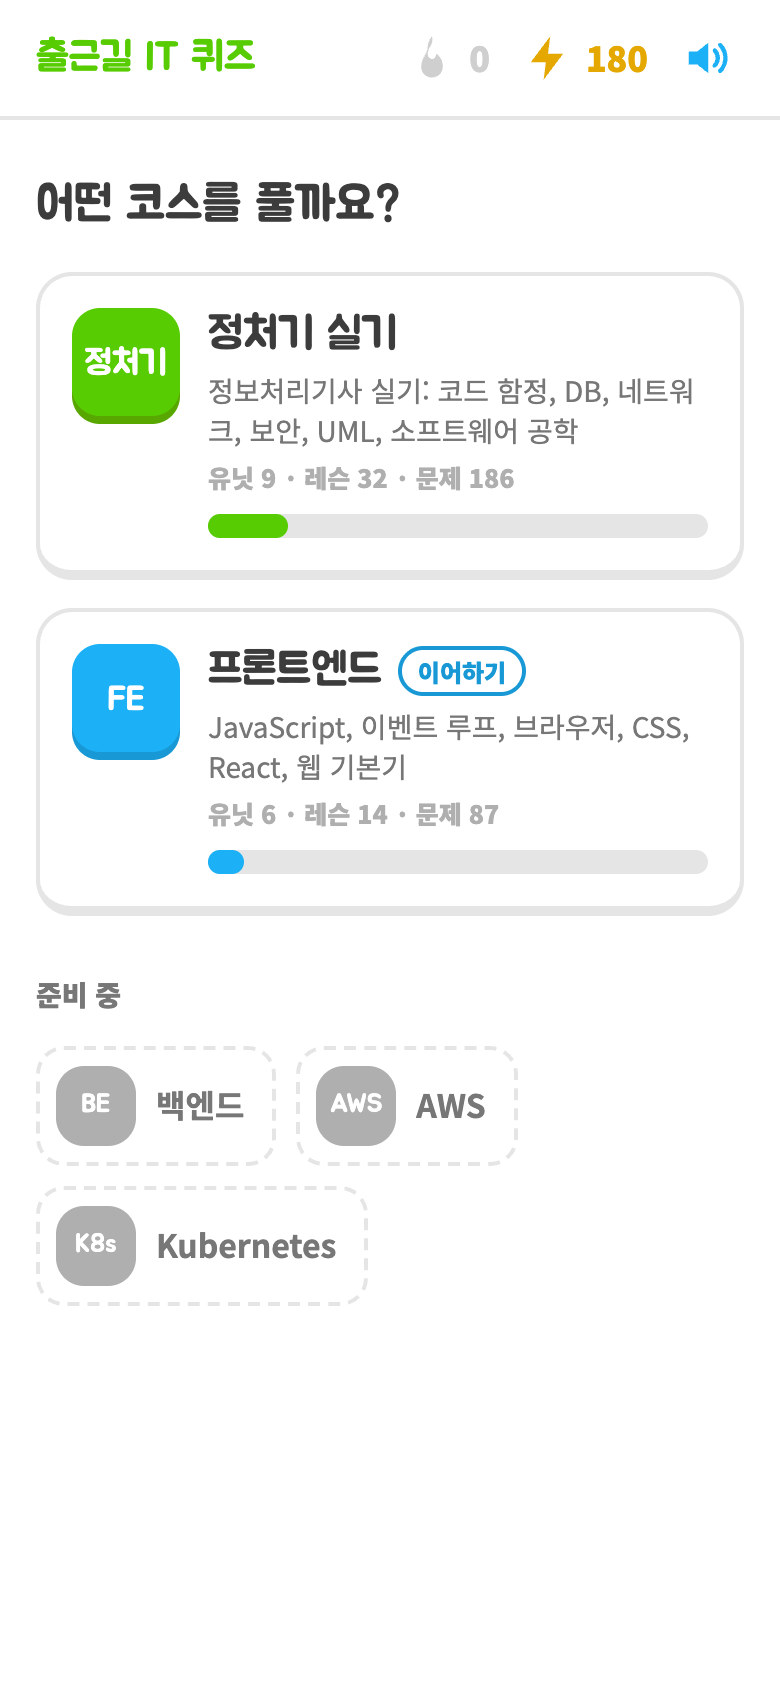
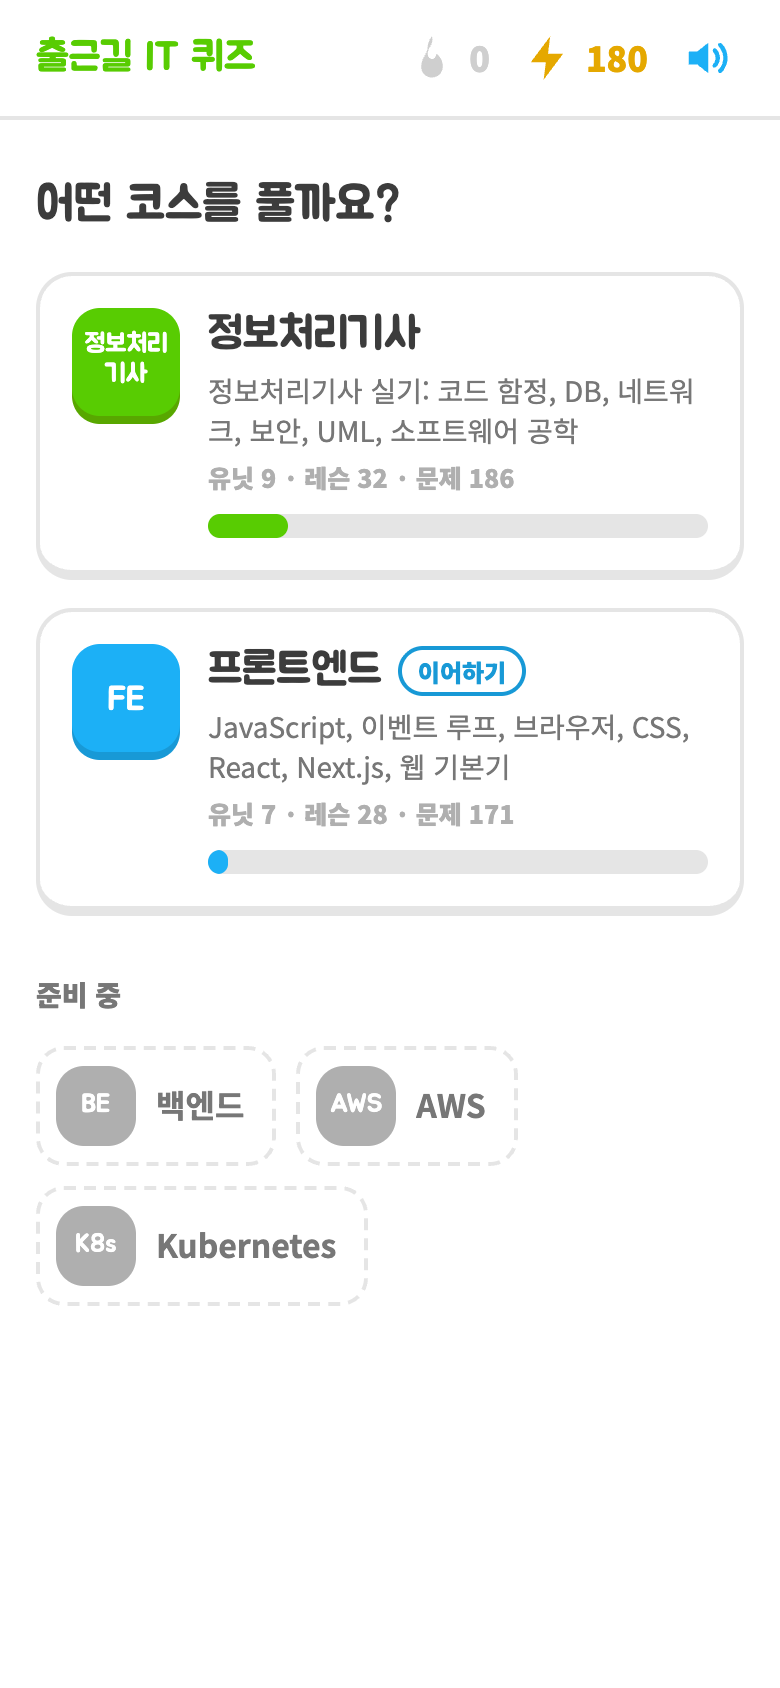
프로젝트 이름을 duckgu-quiz로, README 갱신
- 배포 경로 /jeongcheogi-quiz/ → /duckgu-quiz/ (vite base, Router 주석, package.json)
- README: 새 주소, 정답 검증 방법, 품질 테스트 항목, 폴더 구조(tools, docs, 스킬), 최신 스크린샷

diff --git a/src/lib/Router.ts b/src/lib/Router.ts
@@ -14,7 +14,7 @@ export interface MatchedRoute extends RouteDef {
 
 /**
  * History API 기반 SPA 라우터.
- * GitHub Pages처럼 하위 경로(/jeongcheogi-quiz/)에 올릴 때를 위해 baseUrl을 받는다.
+ * GitHub Pages처럼 하위 경로(/duckgu-quiz/)에 올릴 때를 위해 baseUrl을 받는다.
  * <a data-link href="/lesson/c-1">는 새로고침 없이 이동한다.
  */
 export class Router {
@@ -67,7 +67,7 @@ export class Router {
     this.#routes.set(path, { regex: new RegExp(`^${this.#baseUrl}${pattern}\\/?$`), paramNames, handler });
   }
 
-  /** 앱 안에서 쓰는 경로('/lesson/1')를 실제 주소('/jeongcheogi-quiz/lesson/1')로 바꾼다 */
+  /** 앱 안에서 쓰는 경로('/lesson/1')를 실제 주소('/duckgu-quiz/lesson/1')로 바꾼다 */
   href(path: string) {
     return this.#baseUrl + (path.startsWith('/') ? path : `/${path}`);
   }

diff --git a/vite.config.ts b/vite.config.ts
@@ -1,8 +1,8 @@
 import { defineConfig } from 'vitest/config';
 
-// GitHub Pages 주소가 https://ckdwns9121.github.io/jeongcheogi-quiz/ 라서 배포 빌드만 하위 경로를 쓴다
+// GitHub Pages 주소가 https://ckdwns9121.github.io/duckgu-quiz/ 라서 배포 빌드만 하위 경로를 쓴다
 export default defineConfig(({ command, isPreview }) => ({
-  base: command === 'build' || isPreview ? '/jeongcheogi-quiz/' : '/',
+  base: command === 'build' || isPreview ? '/duckgu-quiz/' : '/',
   esbuild: {
     jsxFactory: 'createVNode',
     jsxFragment: 'Fragment',
